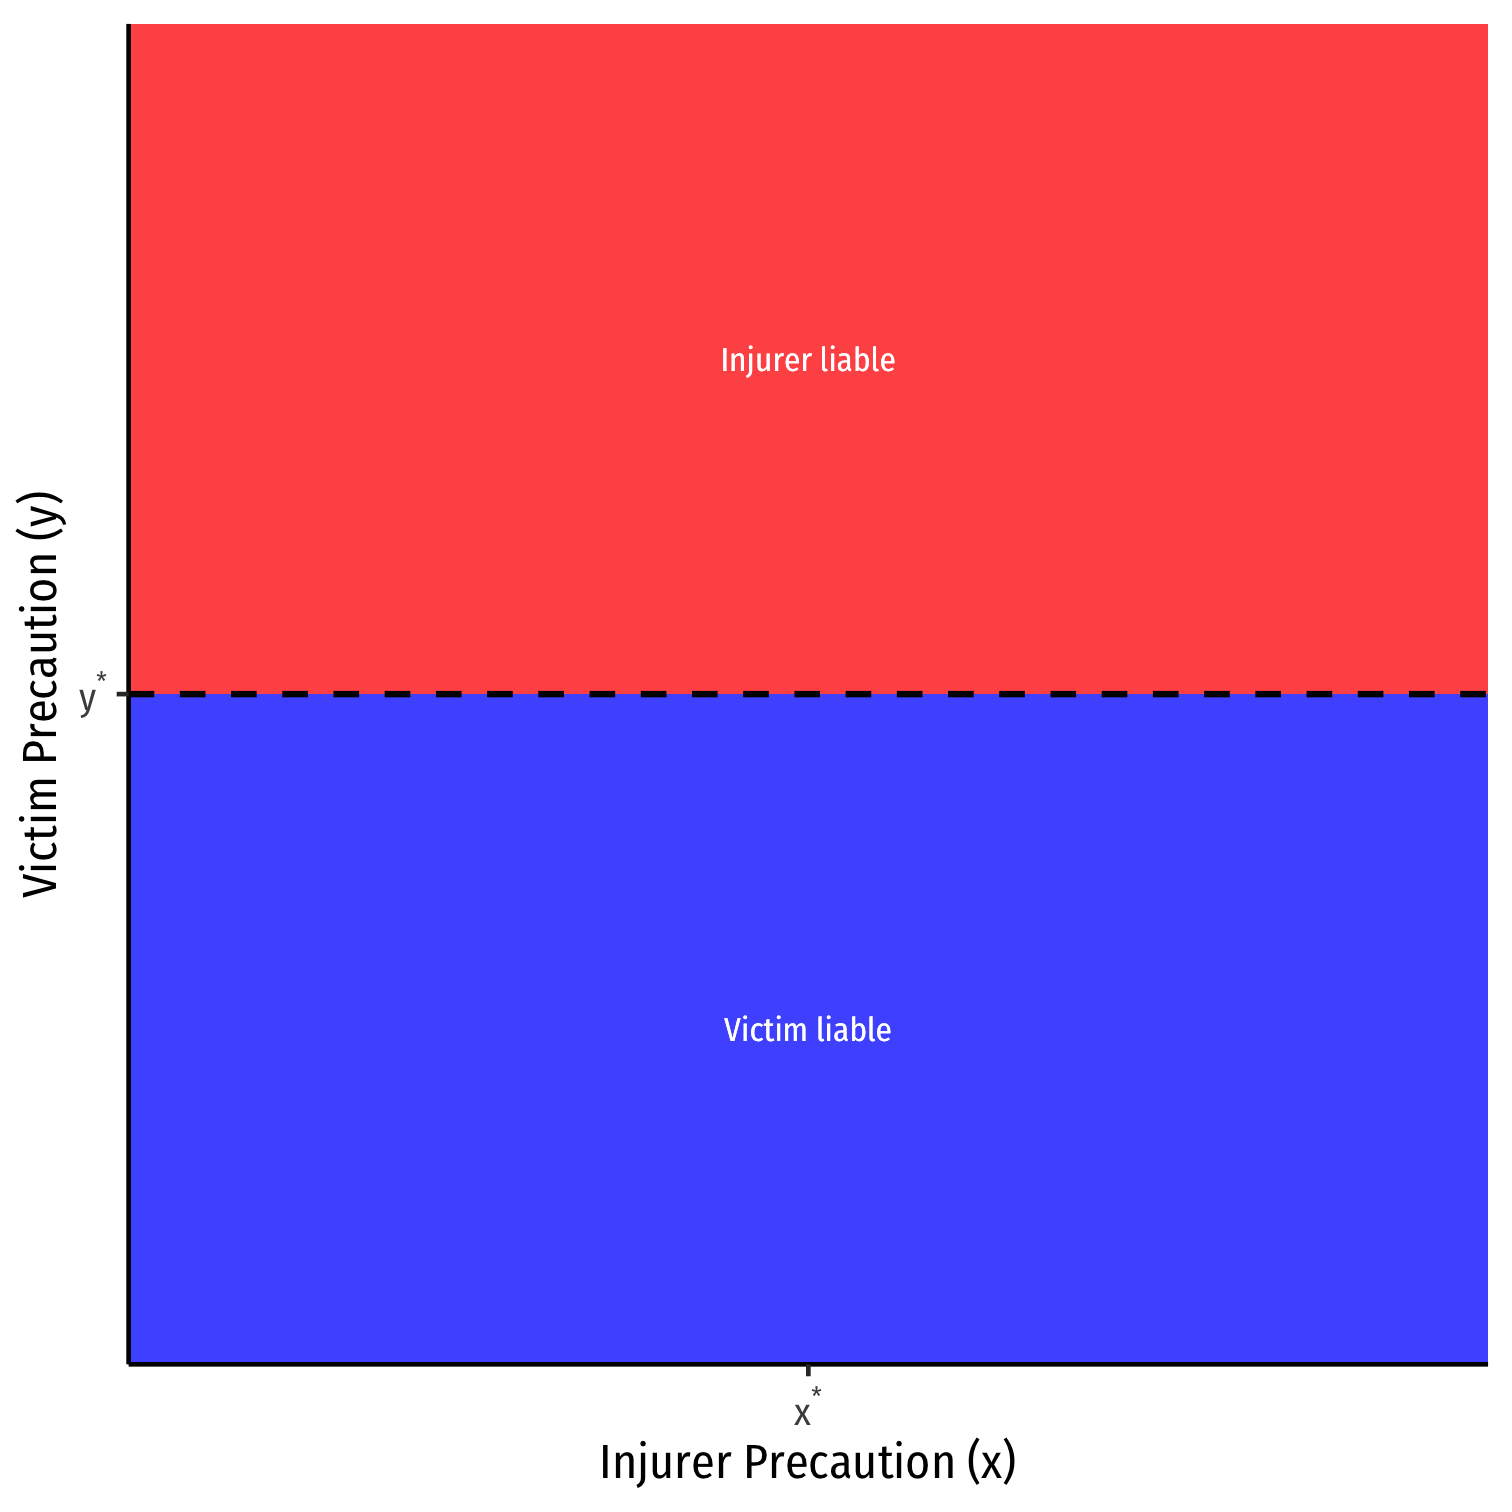
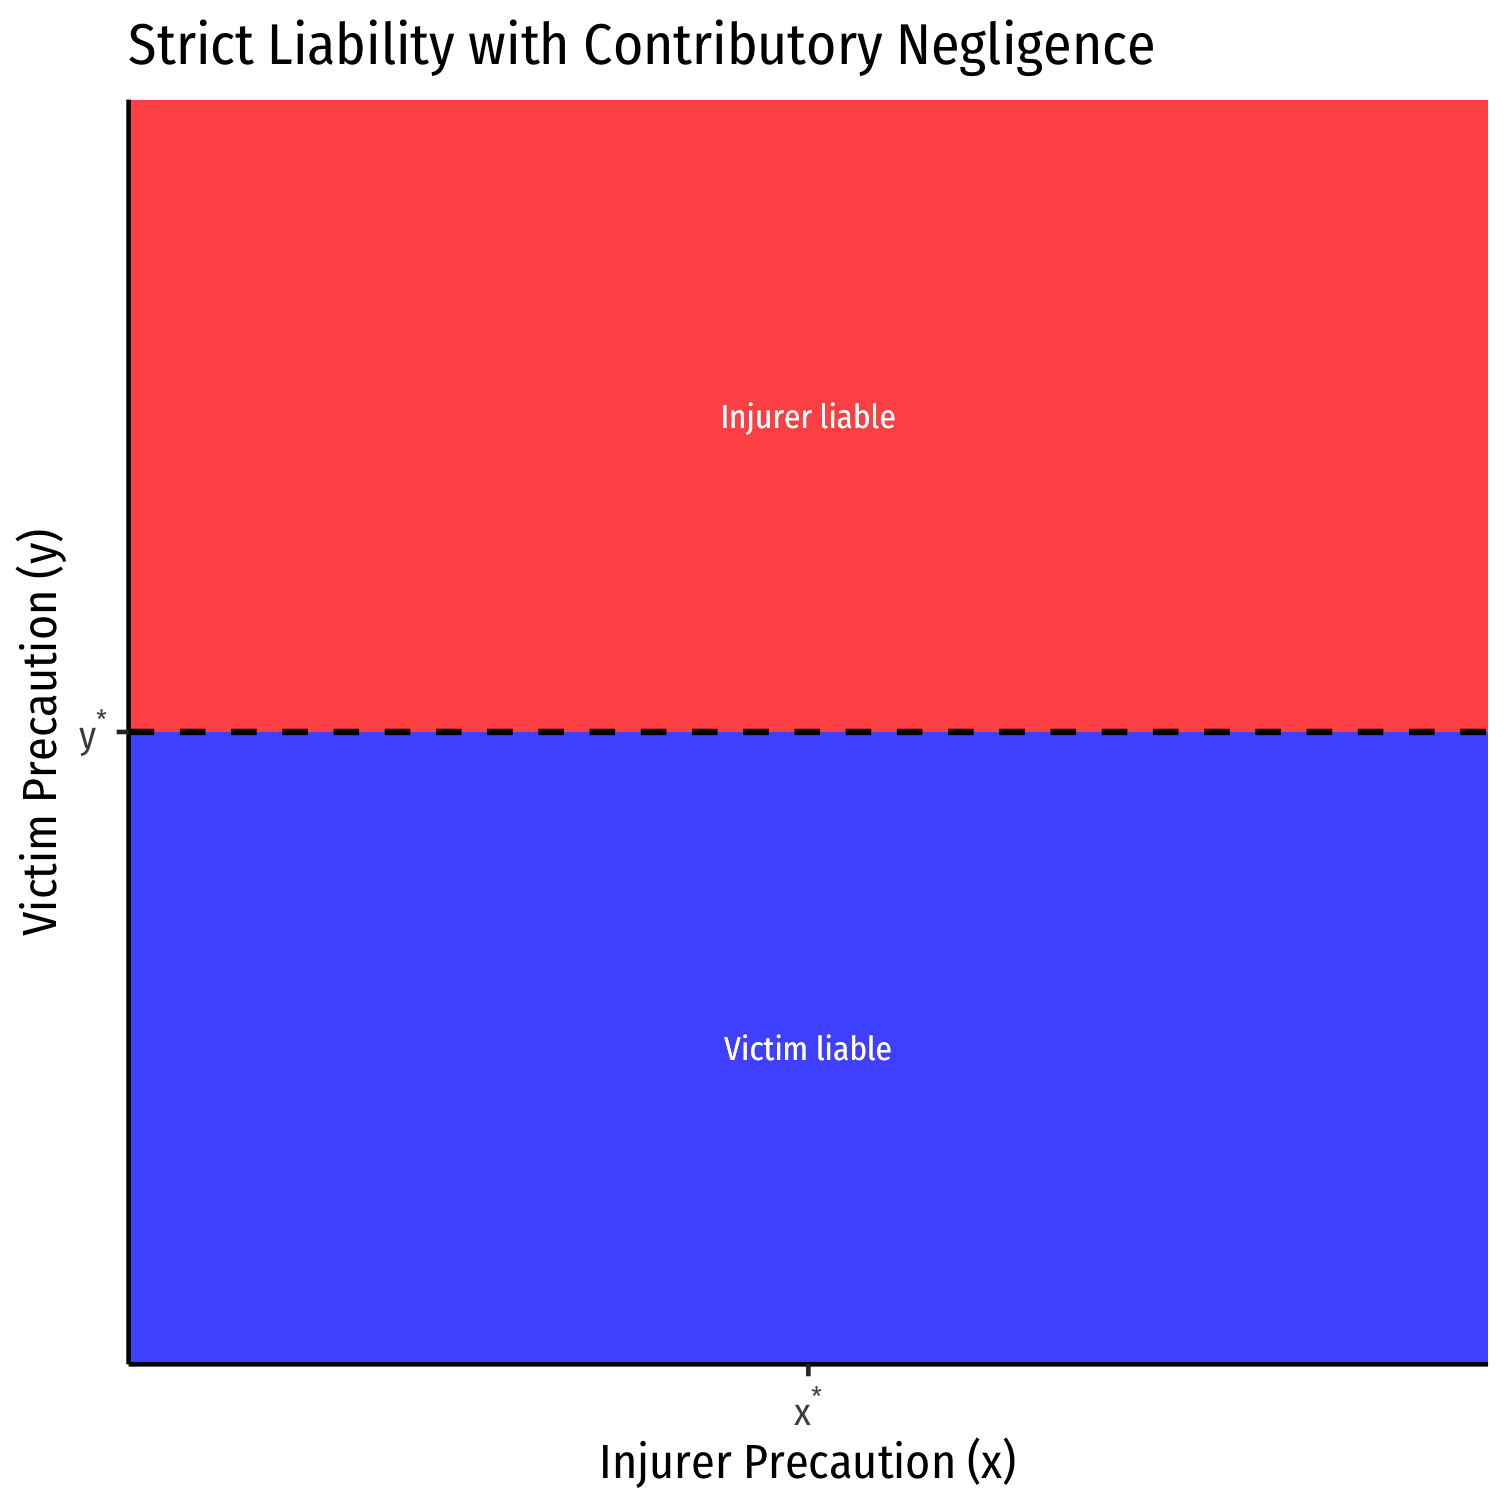
Minor fixes to 4.2 slides

diff --git a/static/slides/4.2-slides.html b/static/slides/4.2-slides.html
@@ -794,7 +794,7 @@ class: inverse, center, middle
 
 ---
 
-# Family of Negligence Rules
+# Injurer &amp; Victim Negligence
 
 .pull-left[
 
@@ -854,11 +854,12 @@ class: inverse, center, middle
 
 ---
 
-# Family of Negligence Rules
+# Comparative Negligence
 
 .pull-left[
 
 - **Comparative Negligence**: if both parties are negligent, they share the cost of the accident (possibly proportionately)
+  - e.g. if accident cause was 70% .red[injurer]’s fault, 30% .blue[victim]’s fault, .red[injurer] pays for 70% of damages
 
 ]
 
@@ -868,7 +869,7 @@ class: inverse, center, middle
 
 ---
 
-# Family of Negligence Rules
+# Strict liability with Contributory Negligence
 
 .pull-left[
 
